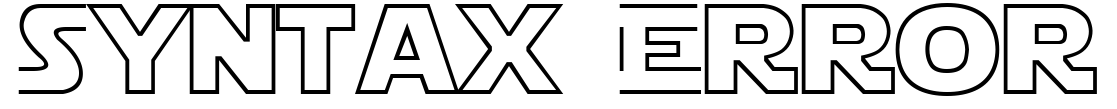
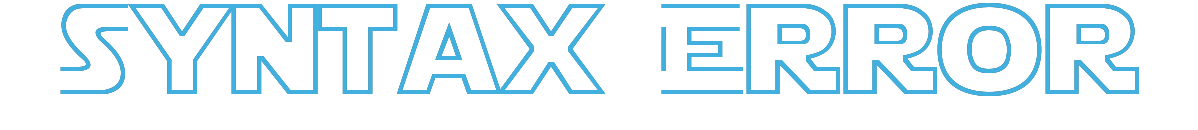
Feature: Add flexbox for layout

Changed region(s): [[0.0, 0.0275, 0.5175, 0.8807], [0.5479, 0.0, 1.0, 0.8807]]

diff --git a/sprint-2/formulario1.html b/sprint-2/formulario1.html
@@ -1,15 +1,19 @@
 <!DOCTYPE html>
 <html>
     <head>
-        <meta charset="utf-8">
-        <title>Equipo #3 IMC</title>
-        <link rel="stylesheet" href="estilos.css">
+      <meta charset="utf-8">
+      <title>Equipo #3 IMC</title>
+      <link rel="stylesheet" href="estilos.css">
+
+      <link rel="preconnect" href="https://fonts.googleapis.com">
+      <link rel="preconnect" href="https://fonts.gstatic.com" crossorigin>
+      <link href="https://fonts.googleapis.com/css2?family=Sora:wght@100&display=swap" rel="stylesheet">
     </head>
 
 
     <body>
         <header class="container header">
-          <img class="img_footer" src="imagenes/mintic.png" alt="">
+          <img class="img__header" src="imagenes/mintic.png" alt="">
           <h1 class="header__title">Cálculo de IMC</h1>
         </header>
 
@@ -31,30 +35,33 @@
                     <select name="genero">
                         <option value="1">Mujer</option>
                         <option value="2">Hombre</option>
-                    </select><br><br>
-                    <label for="nombre">Ingrese su nombre: </label>
-                    <input required name="nombre" ><br><br>
-                    <label for="apellido">Ingrese su apellido: </label>
-                    <input required name="apellido" ><br><br>
-                    <label for="correo">Ingrese su correo electronico: </label>
-                    <input required name="correo" placeholder="ejemplo@ejemplo.com" ><br><br>
-                    <label for="peso">Ingrese su peso: </label>
-                    <input required name="peso" placeholder="Kilogramos"><br><br>
-                    <label for="altura">Ingrese su altura: </label>
-                    <input required name="altura" placeholder="metros"><br><br>
-                    <button type="reset">Cancelar</button>
-                    <button type="submit">Calcula!</button>
+                    </select>
+                    <label for="nombre">Ingrese su nombre </label>
+                    <input required name="nombre" >
+                    <label for="apellido">Ingrese su apellido </label>
+                    <input required name="apellido" >
+                    <label for="correo">Ingrese su correo electronico </label>
+                    <input required name="correo" placeholder="ejemplo@ejemplo.com" >
+                    <label for="peso">Ingrese su peso </label>
+                    <input required name="peso" placeholder="Kilogramos">
+                    <label for="altura">Ingrese su altura </label>
+                    <input required name="altura" placeholder="metros">
+                    <div class="from__button__container">
+                      <button type="reset">Cancelar</button>
+                      <button type="submit">Calcula!</button>
+                    </div>
                 </form>
             </div>
         </div>
         <div class="footer">
-            <ul class="team">
-                <li>Pinky</li>
-                <li>Panda</li>
-                <li>Rumpelstilzchen</li>
-                <li>The wolf</li>
-                <li>Hades</li>
-            </ul>
+          <img  class="img__footer" src="./imagenes/syntaxError.png" alt="" srcset="">
+          <div class="container__members">
+            <div class="member__name">Pinky</div>
+            <div class="member__name">Panda</div>
+            <div class="member__name">Rumpelstilzchen</div>
+            <div class="member__name">The wolf</div>
+            <div class="member__name">Hades</div>
+          </div>
         </div>
     </body>
 

diff --git a/sprint-2/estilos.css b/sprint-2/estilos.css
@@ -2,7 +2,7 @@
   box-sizing: border-box;
   padding: 0;
   margin: 0;
-  font-family: 'Segoe UI', Tahoma, Geneva, Verdana, sans-serif;
+  font-family: 'Sora', sans-serif;
 }
 
 body {
@@ -45,7 +45,7 @@ body {
 }
 
 .imc-img {
-  width: 20em;
+  width: 22em;
   height: 10em;
   margin-bottom: 1.5em;
 }
@@ -55,9 +55,16 @@ body {
   text-align: justify;
 }
 
-.formulario {
-    background: chartreuse;
-    border:6px darkblue solid;
+form {
+  display: flex;
+  flex-direction: column;
+  justify-content: space-between;
+  height: 51vh;
+}
+
+select, input {
+  width: 304px;
+  height: 30px;
 }
 
 .footer {
@@ -65,18 +72,26 @@ body {
   background: #FFFF;
   text-align: left;
   display: flex;
+  flex-direction: column;
   max-width: 100vw;
+  align-items: center;
+  justify-content: center;
 }
 
 .team {
     padding-left: 100px;
 }
 
-.img_footer {
+.img__header {
     width: 10em;
     height: 5em;
     padding: 3;
     margin-top: 5px;
+}
+
+.img__footer {
+  height: 50px;
+  width: 250px;
 }
 
 button {
@@ -89,6 +104,13 @@ button {
   border: none;
 }
 
-input {
-  height: 15px;
+.container__members {
+  display: flex;
+  width: 70vw;
+  padding: 10px;
 }
+
+.member__name {
+  padding: 5px;
+}
+
